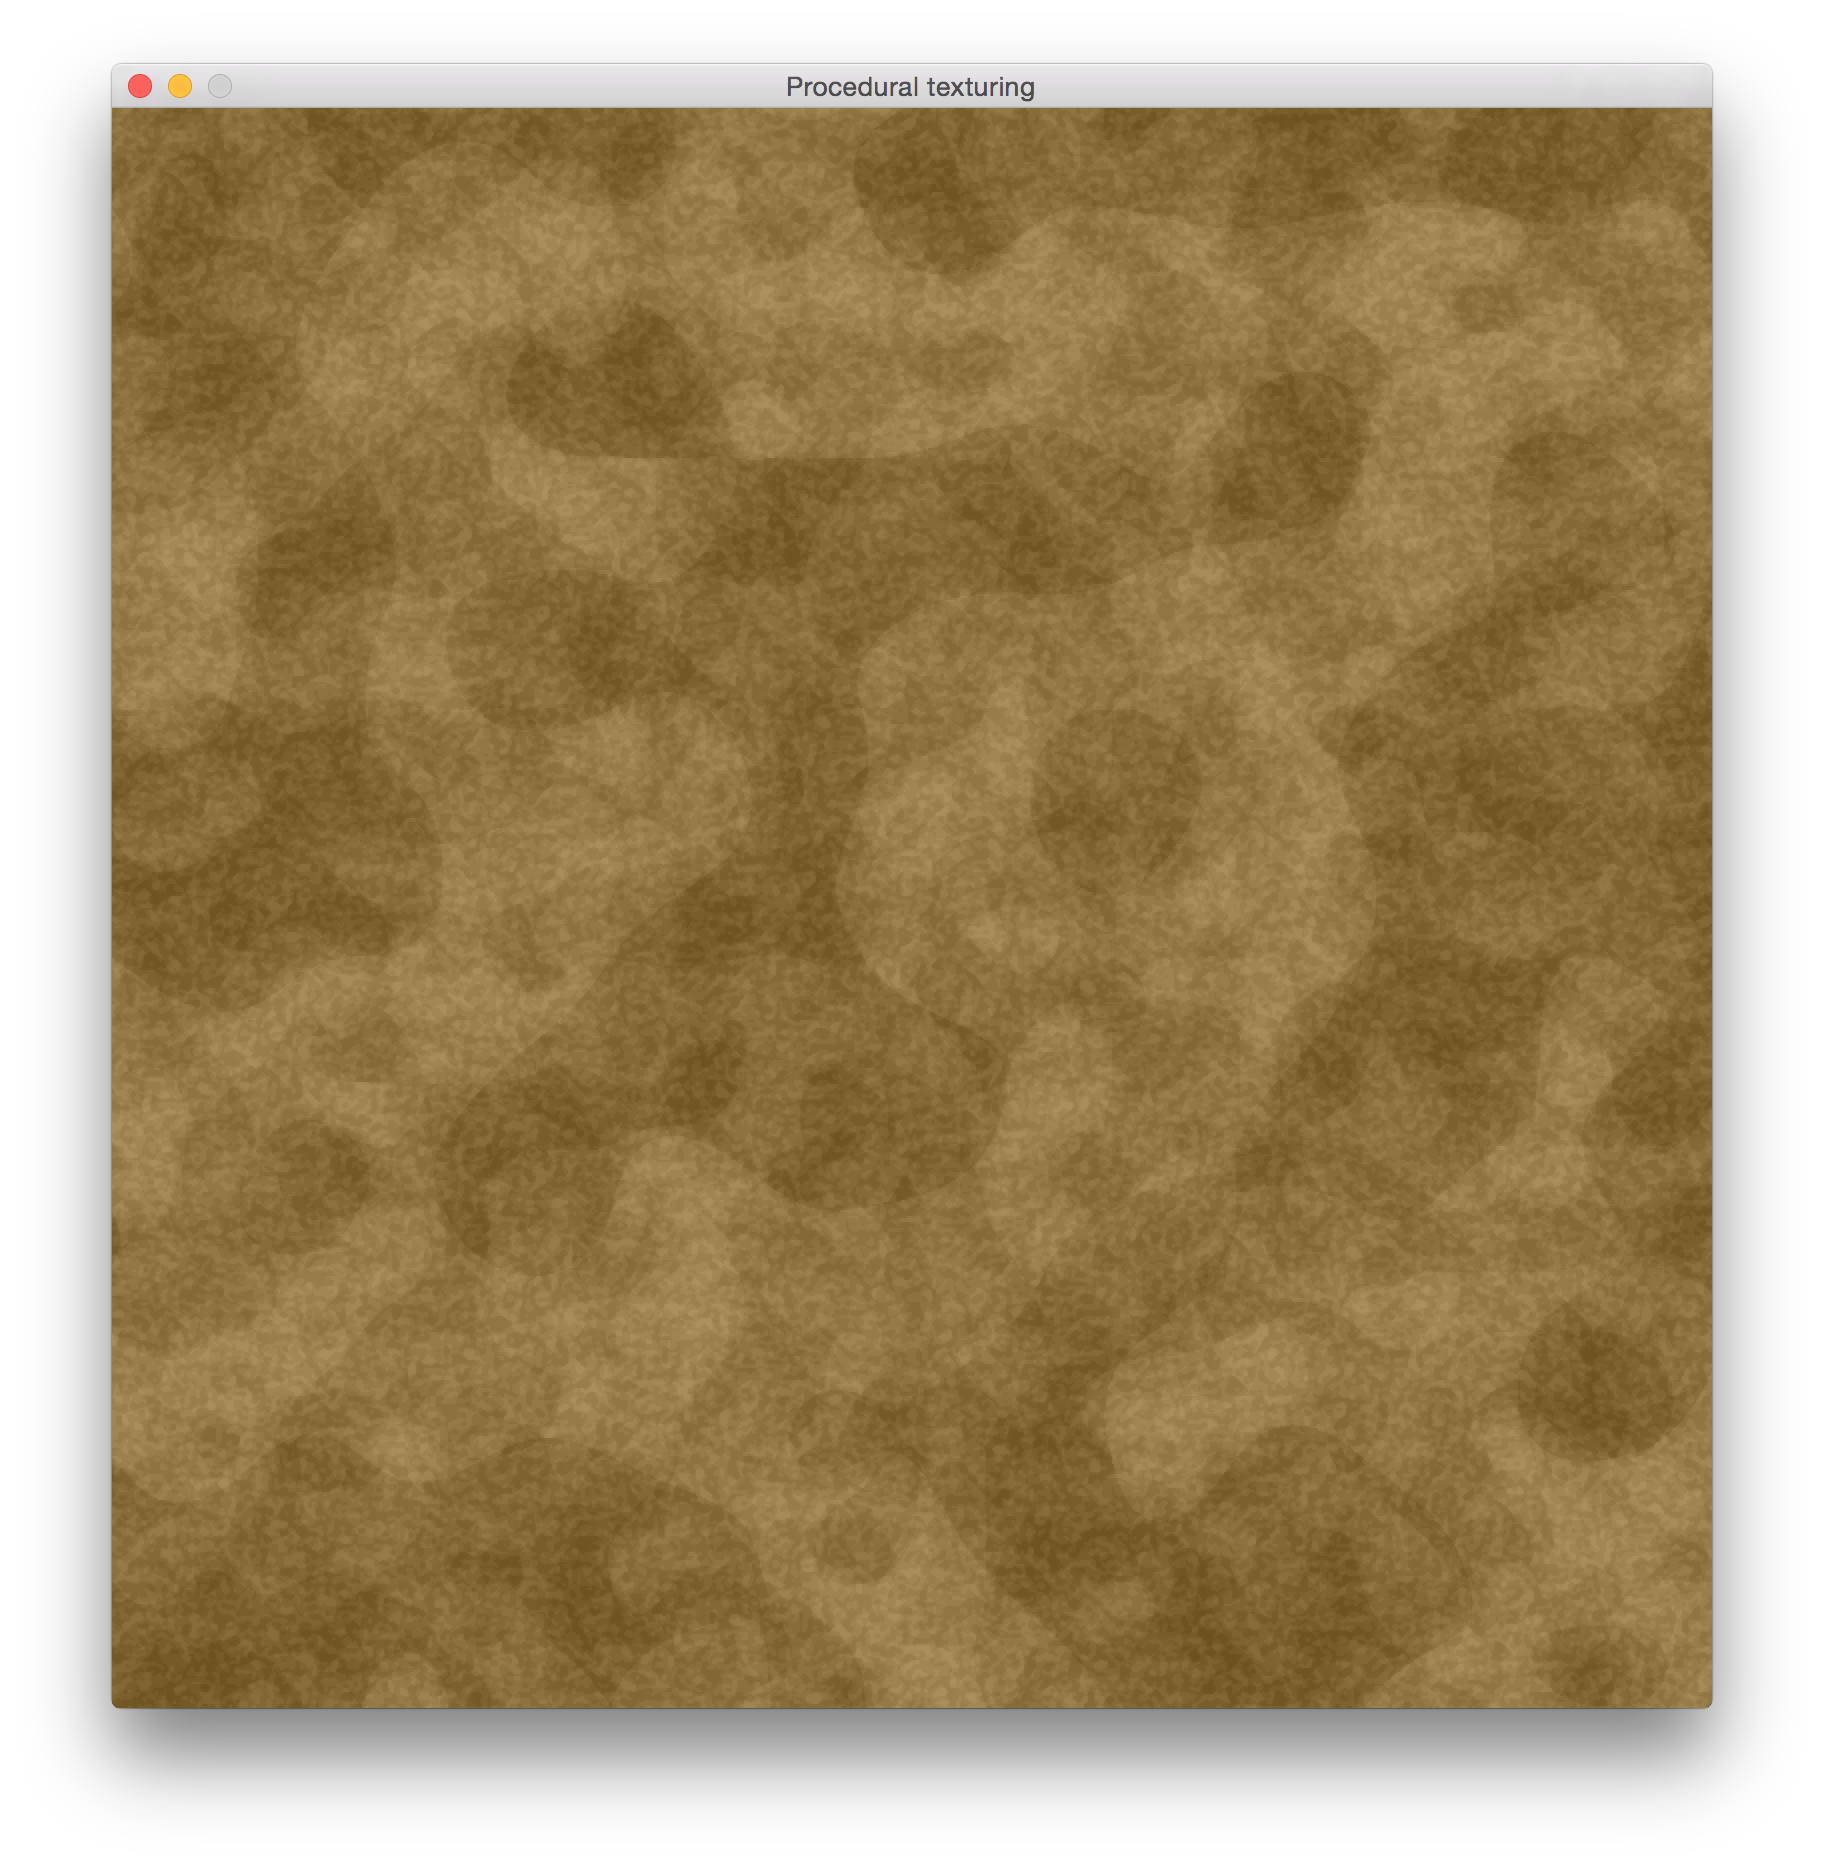
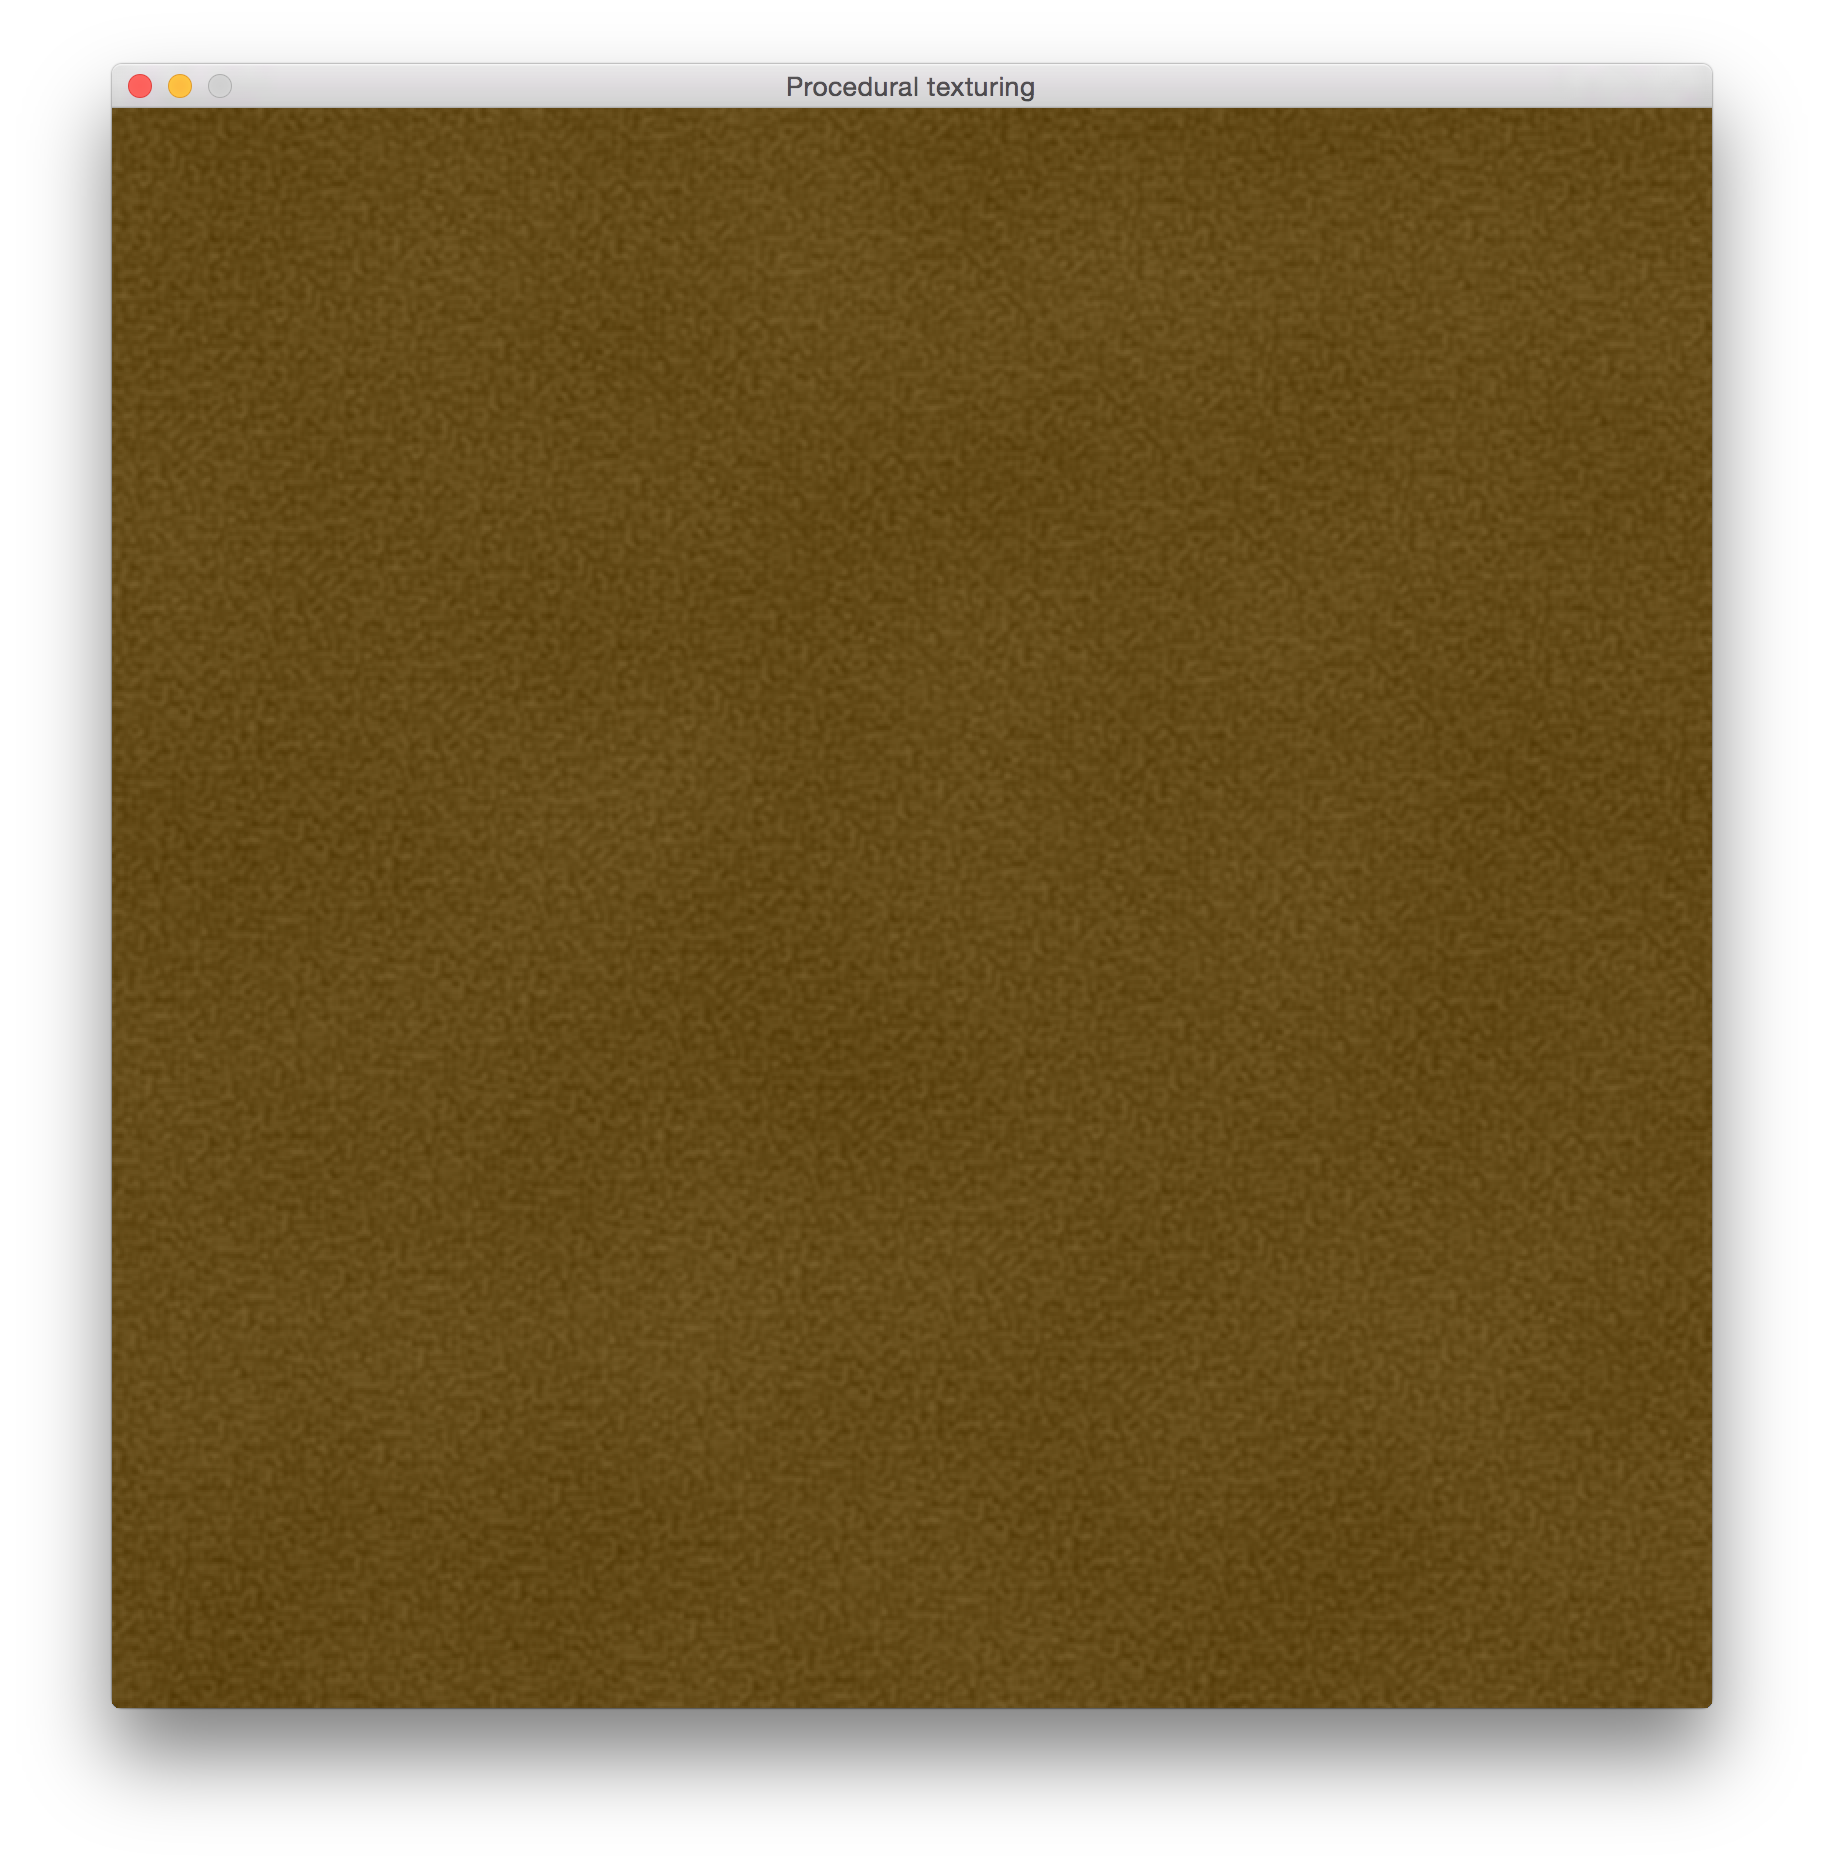
new dirt + bark

diff --git a/src/shader.rs b/src/shader.rs
@@ -204,7 +204,7 @@ fn grass() -> String {
   "#, cnoise(), contents)
 }
 
-fn dirt() -> String {
+fn bark() -> String {
   struct Wave {
     freq: f32,
     amp: f32,
@@ -256,12 +256,60 @@ fn dirt() -> String {
   "#, cnoise(), contents)
 }
 
+
+fn dirt() -> String {
+  struct Wave {
+    freq: f32,
+    amp: f32,
+  }
+
+  let waves = [
+    Wave { freq: 1.0 / 128.0, amp: 0.4 },
+    Wave { freq: 1.0 / 4.0,   amp: 1.0 },
+  ];
+
+  let mut contents = String::new();
+  for wave in waves.iter() {
+    contents.push_str(format!(r#"
+    {{
+      float freq = {};
+      float amp = {};
+
+      float dnoise = cnoise(freq * gl_FragCoord.xyz);
+      noise += dnoise * amp;
+      total_amp += amp;
+    }}
+    "#, wave.freq, wave.amp).as_str());
+  }
+
+  format!(r#"
+  #version 330 core
+
+  in vec4 world_pos;
+
+  layout(location=0) out vec4 frag_color;
+
+  // include cnoise
+  {}
+
+  void main() {{
+    float total_amp = 0.0;
+    float noise = 0.0;
+    {}
+    noise /= total_amp;
+    noise = (noise + 1) / 2;
+    float lerp = 0.2 * noise;
+    frag_color = vec4(0.3 + lerp, 0.2 + lerp, lerp, 1);
+  }}
+  "#, cnoise(), contents)
+}
+
 pub fn make<'a, 'b:'a>(
   gl: &'a GLContext,
 ) -> Shader<'b> {
   let components = vec!(
     (gl::VERTEX_SHADER, vertex()),
-    (gl::FRAGMENT_SHADER, grass()),
+    (gl::FRAGMENT_SHADER, dirt()),
   );
 
   Shader::new(gl, components.into_iter())

diff --git a/README.md b/README.md
@@ -1,5 +1,13 @@
 This repository is a sandbox for procedurally generating textures.
 
+## Simple noise
 ![simple](screenshots/simple.png?raw=true)
-![grass](screenshots/grass.png?raw=true)
+
+## Dirt
 ![dirt](screenshots/dirt.png?raw=true)
+
+## Grass
+![grass](screenshots/grass.png?raw=true)
+
+## Bark
+![bark](screenshots/bark.png?raw=true)
